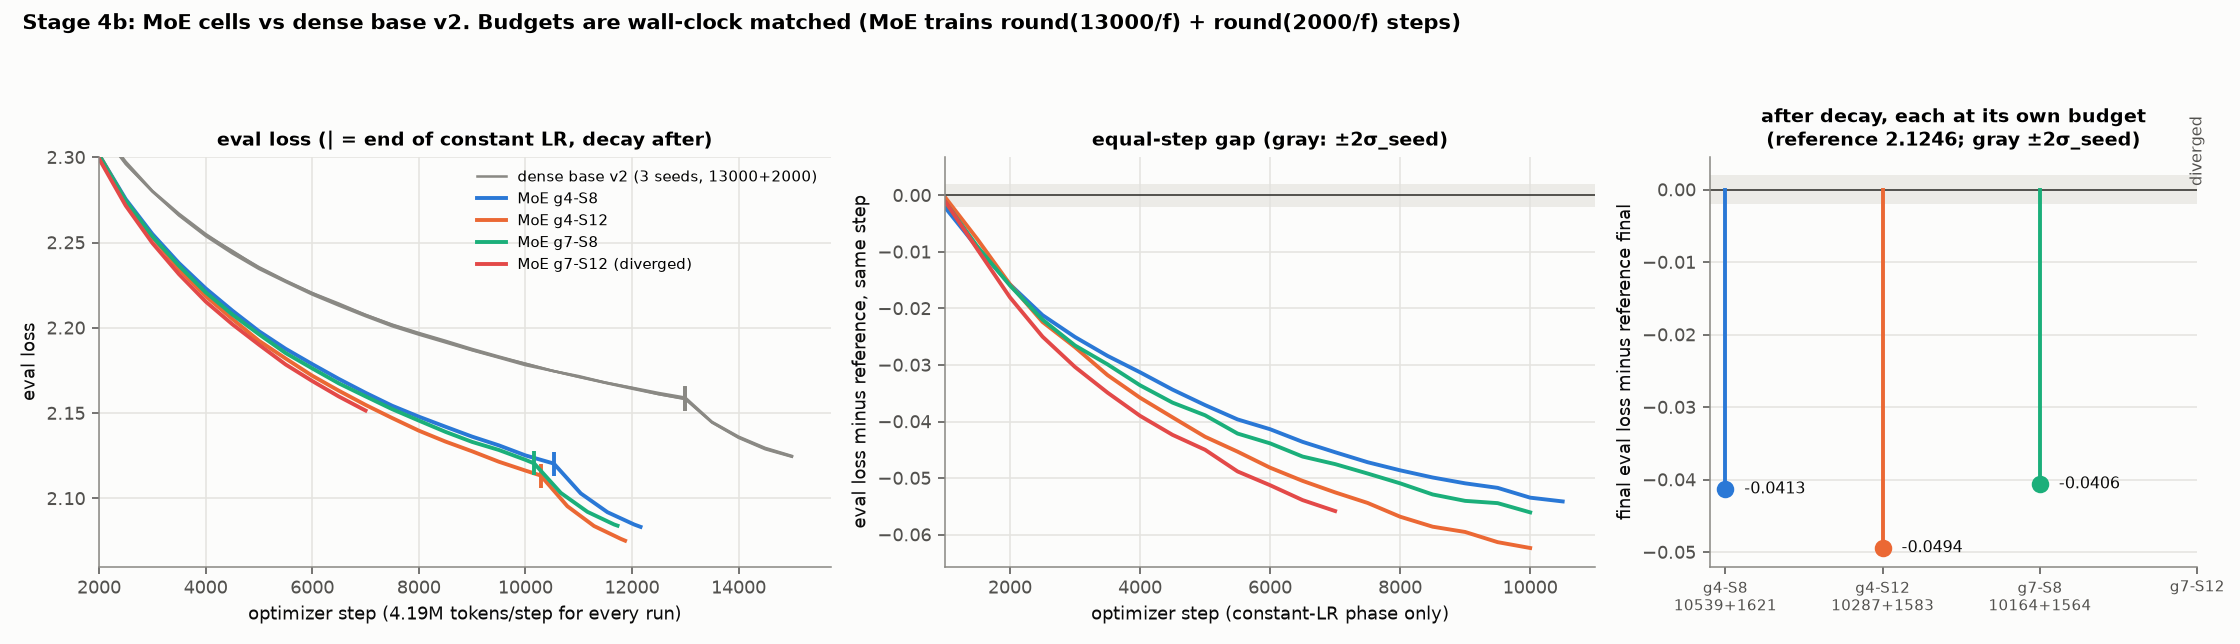
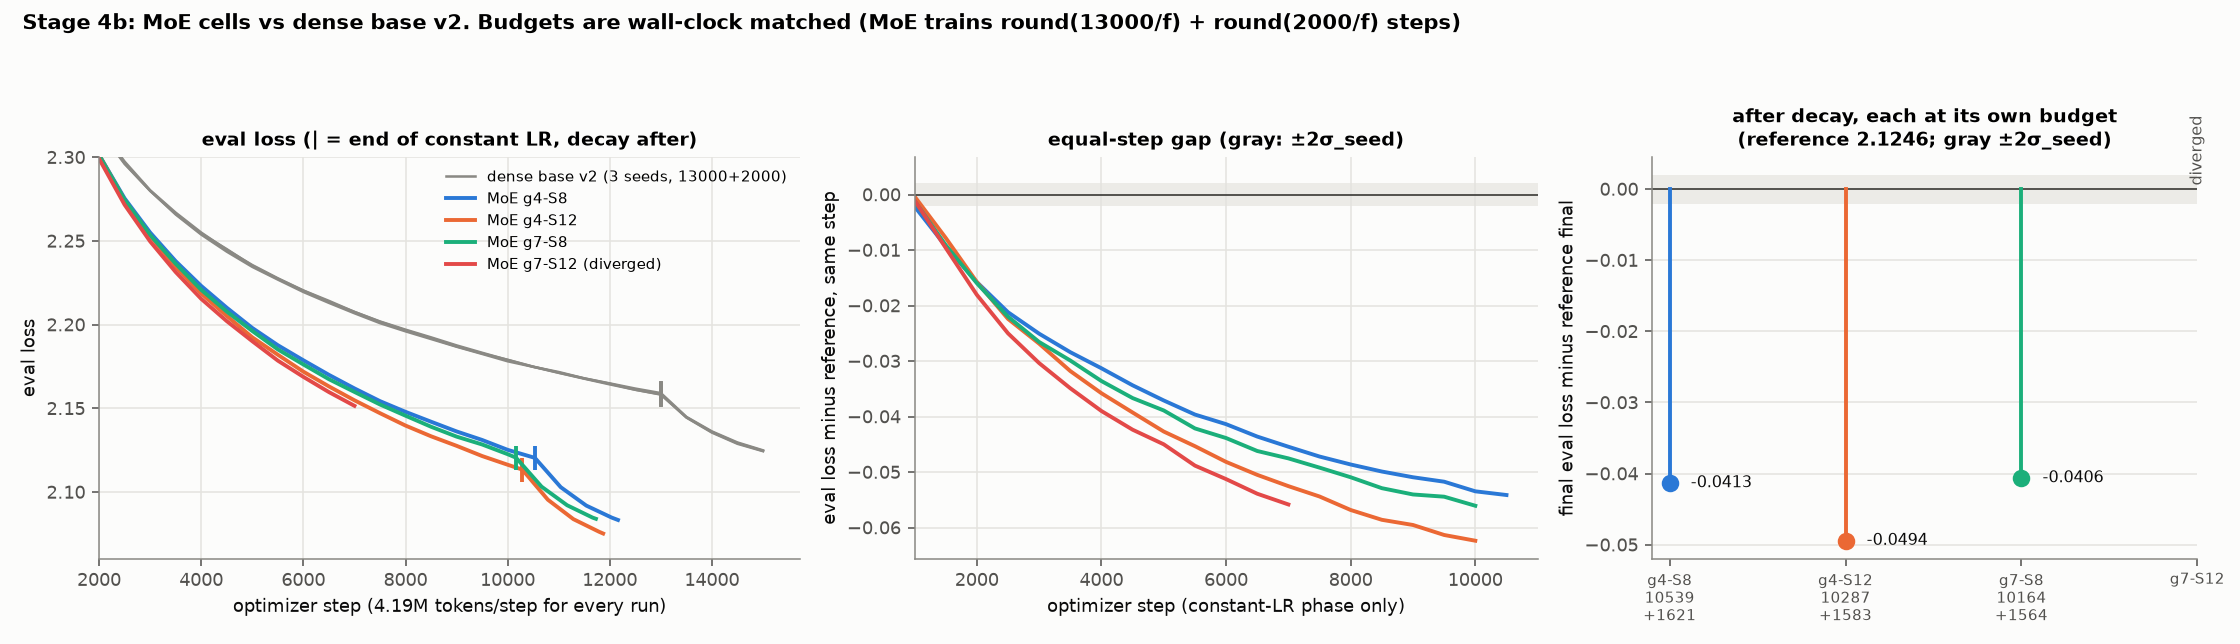
results(4c): canon C at LR 1e-3 decayed 2.0769 (+0.0017 vs base v3), not adopted; figure budget labels stacked
Claude-Session: https://claude.ai/code/session_0172YmuGy2bFLfiPCwQpBEnx

diff --git a/results.md b/results.md
@@ -1225,12 +1225,24 @@ v3, decays chained):
 
 | run | what | steps | trunk / decay job |
 |---|---|---|---|
-| `canon3c-clr1e-3-long` | the sweep winner continued from step 5000 | 9959 + 1532 | 2559576 / 2559578 |
+| `canon3c-clr1e-3-long` | the sweep winner continued from step 5000 | 9959 + 1532 | 2559576 / 2566046 (done) |
 | `canon3-b` | B alone (4c only had B inside abc); f_b = 1.088 measured A-B-A (job 2557945, base3 drift 0.35%) | 9452 + 1454 | 2558419 / 2558420 |
 | `canon3-ac-clr1e-3` | AC at the tuned LR | 9307 + 1432 | 2561767 / 2561768 |
 
 The LR was swept on C only; that it transfers to A and B is assumed, not shown.
 Win rule unchanged: decayed loss below 2.0733.
+
+**Canon C at 1e-3: better per step, still loses at matched wall clock (2026-10-28).**
+Decayed at its own budget (9959 + 1532) it reads **2.0769, +0.0017** against base
+v3's 2.0752: inside 2 sigma_seed, not below the 2.0733 bar, so not adopted. Tuning
+the LR moved it 0.0012 (from 2.0781 at 1e-4). Per step it now leads base v3 for the
+whole stable phase (about -0.001 to -0.002, at the edge of the band), but that lead
+is smaller than what the 3.3% step-time cost takes back (328 fewer trunk steps).
+Trunk end was 2.1143 at step 9959 vs 2.1134 at 10287. Canon C's case for
+adoption now rests on its step-time cost, not its loss. (The chained decay first
+failed on a path lookup: a `continue` resume saves into the original run dir
+`canon3c-clr1e-3-2552996`, which `sbatch_decay_chain.sh` does not search; the decay
+was regenerated with `make_decay.py` and resubmitted unchanged.)
 
 Figures are regenerated by `sep07_abl/tools/plot_stage4.py <figures-dir>` from the logs and
 eval reports; runs still in flight are drawn as far as they have got. The canon downstream
